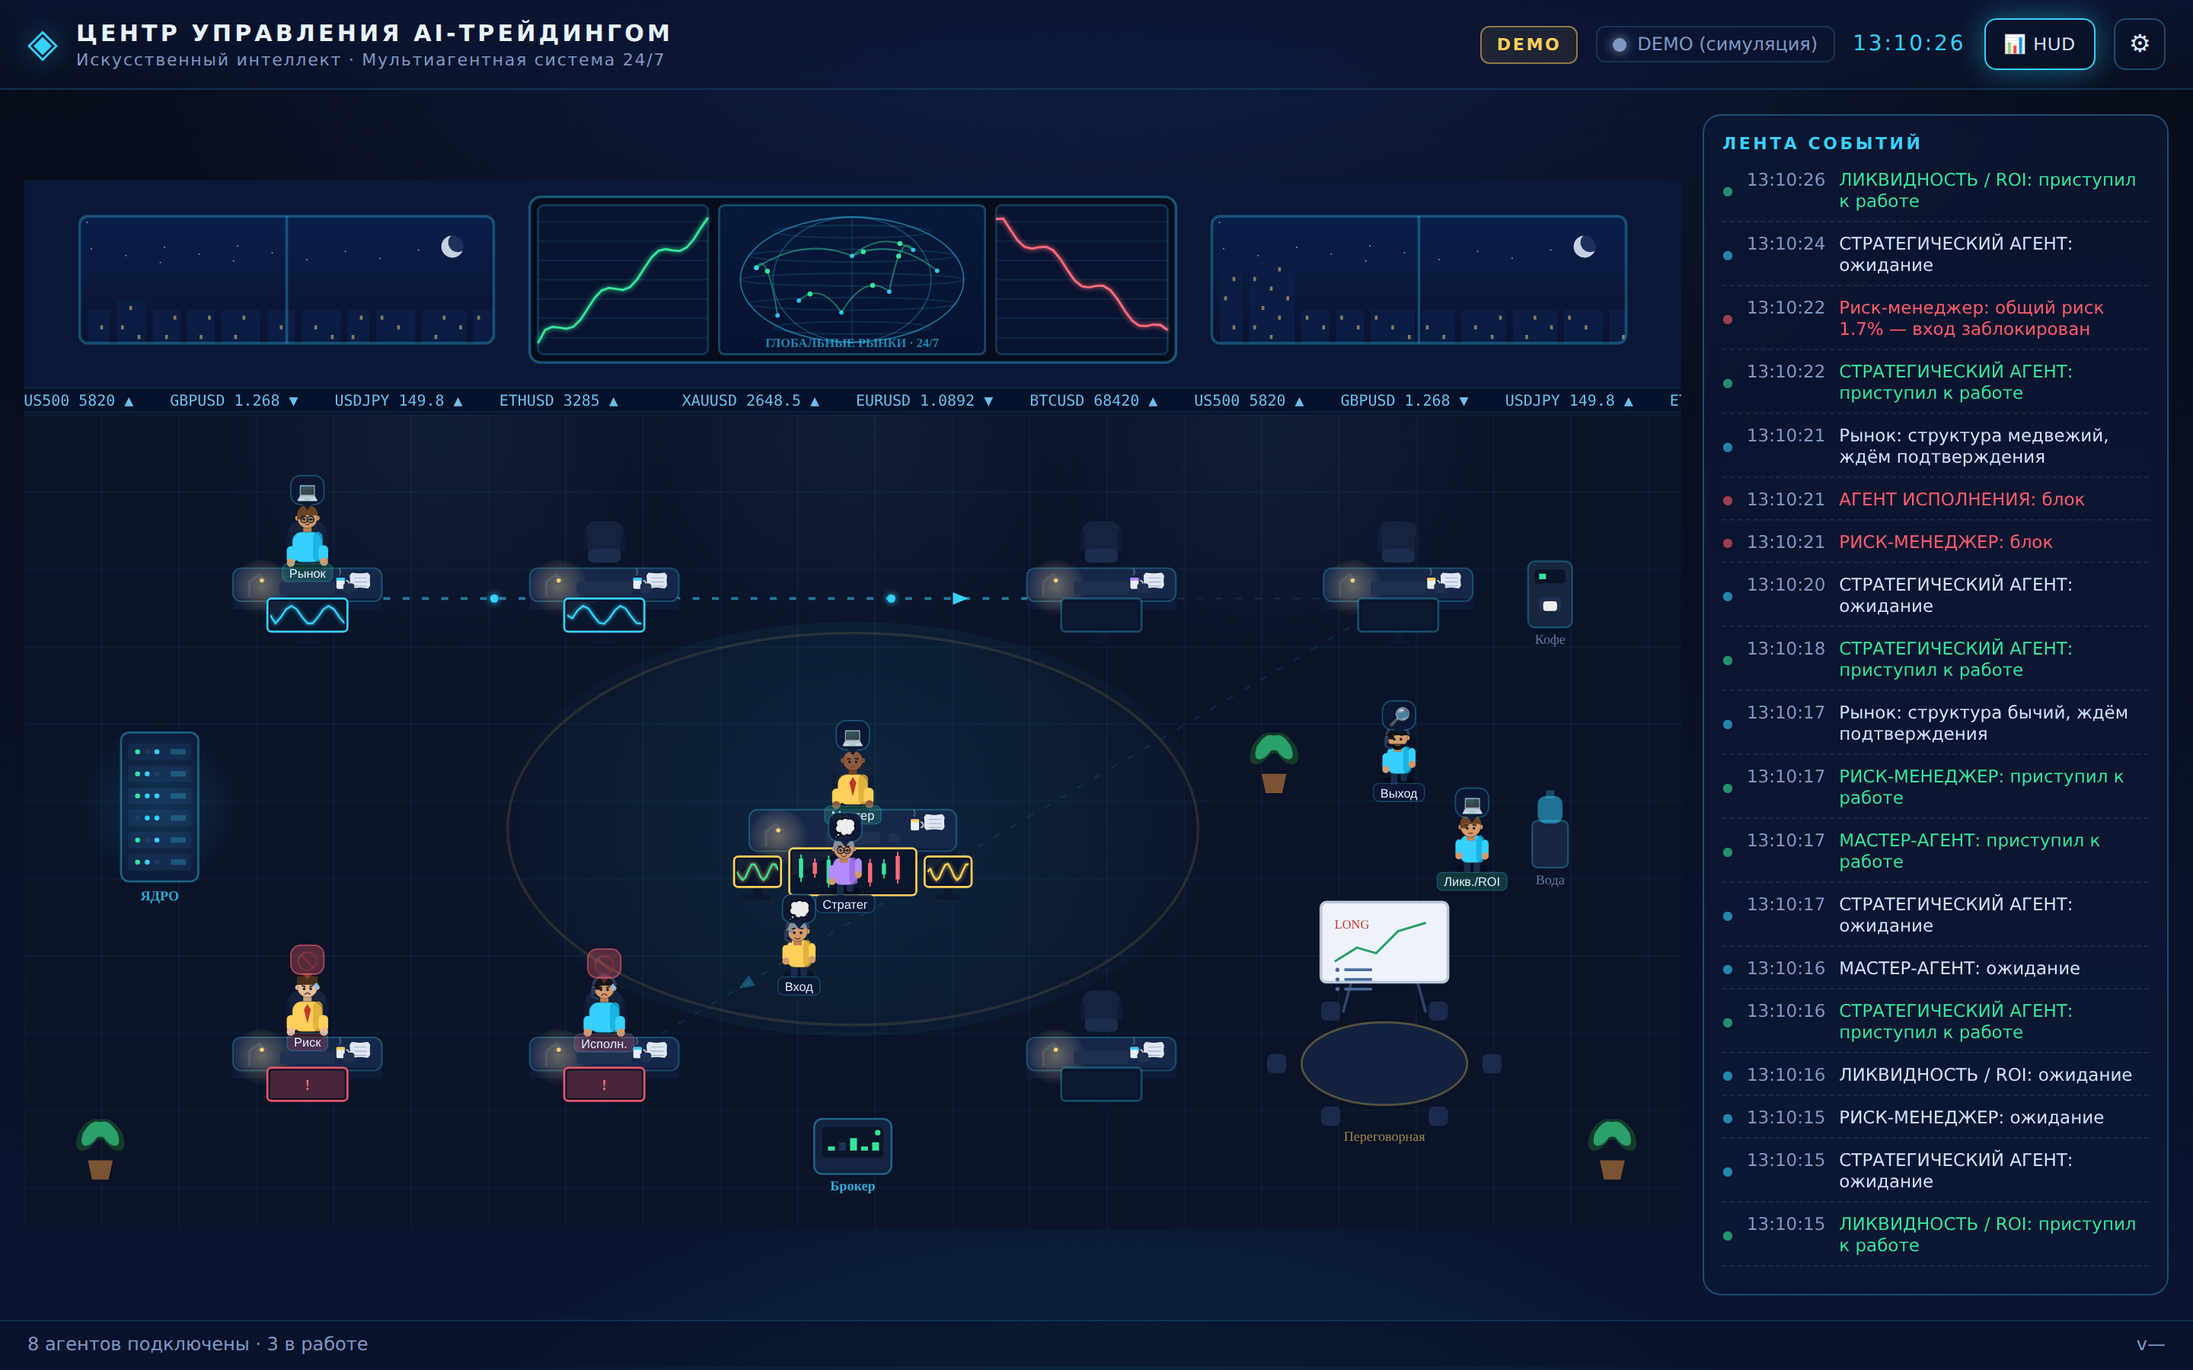
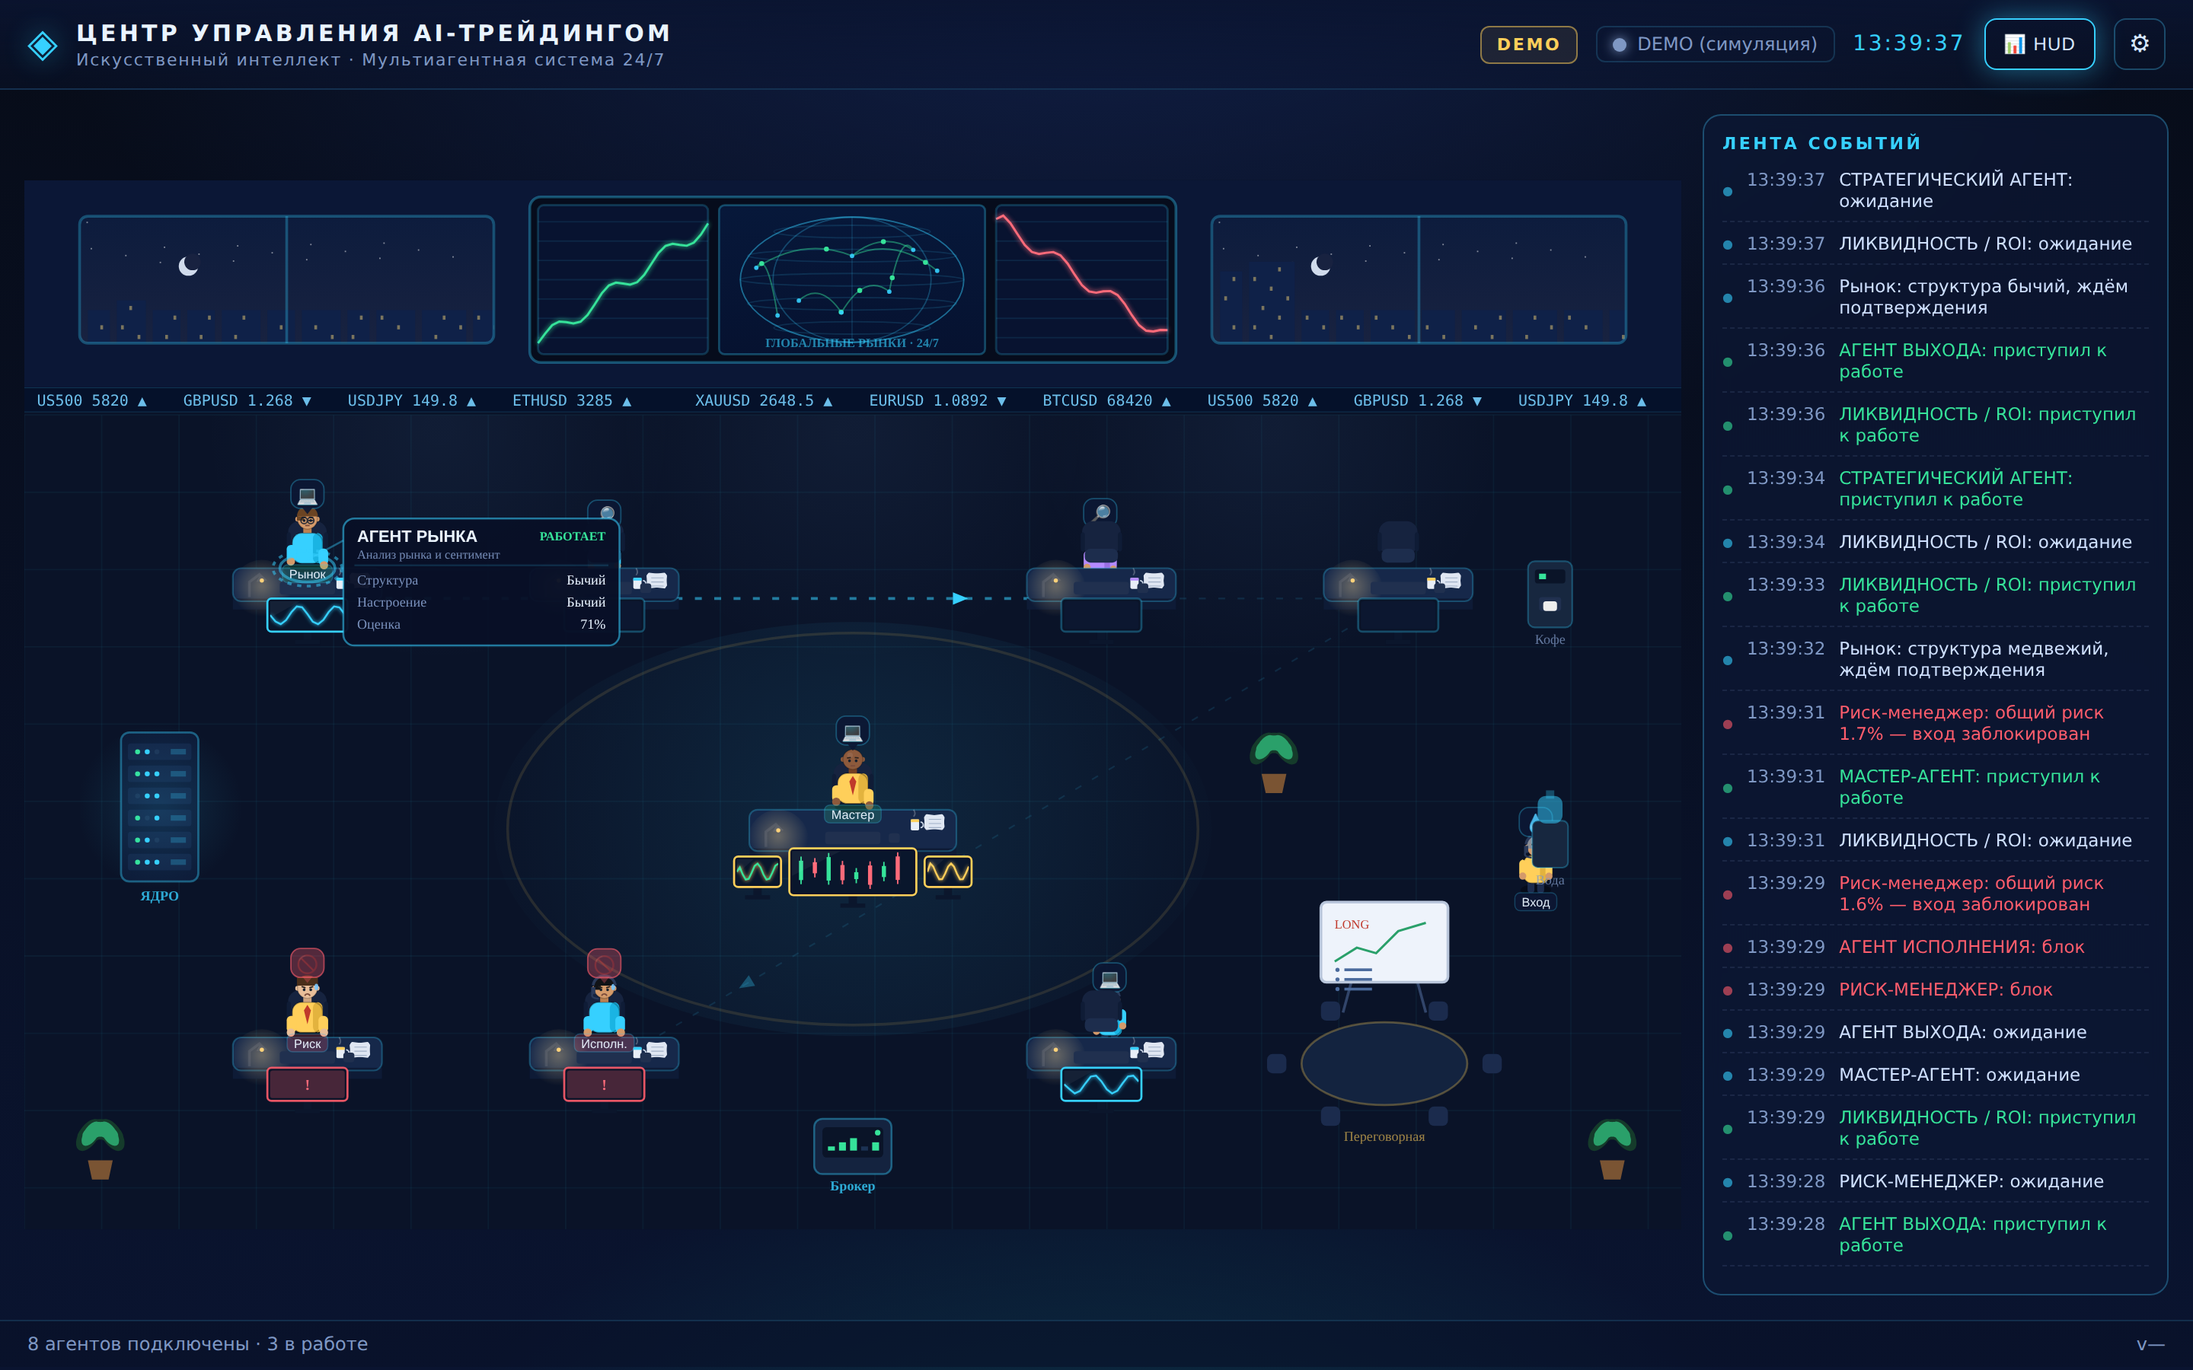
Day/night, gestures, HUD<->floor link, P&L tile
1. Day/night: windows run an accelerated dawn->day->dusk->night cycle (~2min)
   — sky gradient, sun/moon arc, stars and building lights fade with time.
2. Gestures: idle agents stretch or sip a mug at the coffee machine; seated
   working agents type harder/faster when the pipeline is hot.
3. HUD<->floor link: clicking a HUD panel selects that agent (and the floor
   shows its inspector card); a floor click highlights the matching HUD panel.
   Selection is shared across both views via Office.onSelect.
4. P&L tile: a session-summary panel (trades, winrate, P&L with a trend
   sparkline) in the free HUD cell; the simulator now closes trades and tracks
   wins/pnl, surfaced in summary and the activity feed.

Validated error-free via headless Chromium (assets/hud.png, floor.png).

Claude-Session: https://claude.ai/code/session_01K4bLkzzwJQD9288yDjJJh4

diff --git a/AI-Trading-Office-V4/renderer/office.js b/AI-Trading-Office-V4/renderer/office.js
@@ -46,7 +46,7 @@ const MAP_ARCS = [[0, 2], [2, 4], [1, 5], [3, 6], [0, 7], [5, 3], [2, 6]];
 
 let canvas, ctx, raf = 0, last = 0, dpr = 1;
 let ents = {}, agentsDef = null;
-let viewScale = 1, viewOx = 0, viewOy = 0, selectedId = null;
+let viewScale = 1, viewOx = 0, viewOy = 0, selectedId = null, onSelectCb = null;
 let standup = { active: false, until: 0, nextAt: 0 };
 let signals = [], nextSignalAt = 0, lastDecision = '';
 
@@ -66,7 +66,7 @@ function initEntities() {
       color: accentFor(a.id), skin: SKINS[hh % SKINS.length], hair: HAIRS[(hh >> 3) % HAIRS.length],
       hairStyle: hh % 5, beard: ((hh >> 6) % 4) === 0, look: ROLE_LOOK[a.id] || {},
       brokerRun: { active: false, phase: 'go', until: 0 }, brokerCooldown: 0,
-      blinkOffset: (hh % 5000), data: null
+      blinkOffset: (hh % 5000), data: null, gesture: null, gestureUntil: 0
     };
   });
   standup = { active: false, until: 0, nextAt: performance.now() + 20000 };
@@ -92,7 +92,8 @@ const Office = {
   forceStandup() { standup.active = true; standup.until = performance.now() + 20000; },
   forceSignal() { signals.push({ t0: performance.now(), dur: 4600, symbol: SYMB[Math.floor(Math.random() * SYMB.length)], side: sideFromDecision() }); },
   forceBrokerRun() { const e = ents.execution; if (e) e.brokerRun = { active: true, phase: 'go', until: 0, symbol: 'XAUUSD', side: 'BUY' }; },
-  select(id) { selectedId = (id && ents[id]) ? id : null; }
+  select(id) { selectedId = (id && ents[id]) ? id : null; if (onSelectCb) onSelectCb(selectedId); },
+  onSelect(cb) { onSelectCb = cb; }
 };
 
 function resizeIfNeeded() {
@@ -164,6 +165,13 @@ function step(dt, now) {
       }
     }
     moveToward(e, dt);
+    // idle micro-gestures (stretch, or sip at the coffee machine)
+    if (!e.moving && e.status !== 'working' && e.status !== 'blocked') {
+      if ((!e.gesture || now > e.gestureUntil) && Math.random() < 0.004) {
+        e.gesture = (e.roamKind === 'coffee') ? 'sip' : 'stretch'; e.gestureUntil = now + 1300;
+      }
+    }
+    if (e.gesture && (e.moving || now > e.gestureUntil)) e.gesture = null;
   }
 }
 
@@ -224,6 +232,7 @@ function onClick(ev) {
   let best = null, bd = 1e9;
   for (const id in ents) { const e = ents[id]; const d = Math.hypot(e.x - lx, e.y - ly); if (d < bd) { bd = d; best = id; } }
   selectedId = (best && bd < 34 && best === selectedId) ? null : (best && bd < 34 ? best : null);
+  if (onSelectCb) onSelectCb(selectedId);
 }
 
 function drawSelectionRing(e, now) {
@@ -331,26 +340,50 @@ function drawTicker(now) {
   ctx.restore();
 }
 
+// accelerated day/night so the sky visibly shifts dawn→day→dusk→night over ~2 min
+function smooth(t) { return t * t * (3 - 2 * t); }
+function mixHex(a, b, t) {
+  const pa = parseInt(a.slice(1), 16), pb = parseInt(b.slice(1), 16);
+  const r = Math.round(((pa >> 16) & 255) + (((pb >> 16) & 255) - ((pa >> 16) & 255)) * t);
+  const g = Math.round(((pa >> 8) & 255) + (((pb >> 8) & 255) - ((pa >> 8) & 255)) * t);
+  const bl = Math.round((pa & 255) + ((pb & 255) - (pa & 255)) * t);
+  return '#' + ((1 << 24) + (r << 16) + (g << 8) + bl).toString(16).slice(1);
+}
+function skyFor(now) {
+  const phase = ((now / 120000) + 0.72) % 1;                 // 0 = midnight; starts in the evening
+  const dayness = Math.max(0, Math.min(1, 0.5 - 0.5 * Math.cos(phase * 2 * Math.PI)));
+  const twi = Math.max(0, 1 - Math.min(Math.abs(phase - 0.25), Math.abs(phase - 0.75)) / 0.09);
+  const top = mixHex('#0a1430', '#2f74d6', smooth(dayness));
+  let bot = mixHex('#0a1230', '#bcd9f2', smooth(dayness));
+  bot = mixHex(bot, '#c9743a', twi * 0.6);                   // warm horizon at dawn/dusk
+  const bld = mixHex('#0c1d44', '#2a3f66', dayness * 0.6);
+  let sun, bxf;
+  if (phase >= 0.25 && phase < 0.75) { sun = true; bxf = (phase - 0.25) / 0.5; }
+  else { sun = false; const np = phase < 0.25 ? phase + 1 : phase; bxf = (np - 0.75) / 0.5; }
+  return { top, bot, bld, stars: 1 - dayness, lights: 1 - dayness, sun, bx: bxf, alt: Math.sin(bxf * Math.PI) };
+}
 function drawWindow(x, y, w, h, now) {
+  const sky = skyFor(now);
   roundRect(x, y, w, h, 6); ctx.fillStyle = '#05102a'; ctx.fill();
   ctx.save(); ctx.clip();
   const g = ctx.createLinearGradient(0, y, 0, y + h);
-  g.addColorStop(0, '#0a1f4a'); g.addColorStop(1, '#0a1230'); ctx.fillStyle = g; ctx.fillRect(x, y, w, h);
-  // moon + stars
-  ctx.fillStyle = 'rgba(230,240,255,0.85)'; ctx.beginPath(); ctx.arc(x + w - 30, y + 22, 8, 0, 7); ctx.fill();
-  ctx.fillStyle = 'rgba(10,31,74,0.9)'; ctx.beginPath(); ctx.arc(x + w - 26, y + 19, 7, 0, 7); ctx.fill();
-  ctx.fillStyle = 'rgba(255,255,255,0.5)';
-  for (let s = 0; s < 14; s++) ctx.fillRect(x + ((s * 53) % (w - 10)) + 5, y + ((s * 29) % 30) + 4, 1, 1);
-  // skyline
-  let bx = x + 6, seed = Math.floor(x);
-  while (bx < x + w - 6) {
+  g.addColorStop(0, sky.top); g.addColorStop(1, sky.bot); ctx.fillStyle = g; ctx.fillRect(x, y, w, h);
+  // sun / moon along an arc
+  const bx = x + 20 + sky.bx * (w - 40), by = y + h - 18 - sky.alt * (h - 34);
+  if (sky.alt > 0.02) {
+    if (sky.sun) { const gg = ctx.createRadialGradient(bx, by, 2, bx, by, 16); gg.addColorStop(0, 'rgba(255,236,170,0.9)'); gg.addColorStop(1, 'rgba(255,236,170,0)'); ctx.fillStyle = gg; ctx.beginPath(); ctx.arc(bx, by, 16, 0, 7); ctx.fill(); ctx.fillStyle = '#ffe9a0'; ctx.beginPath(); ctx.arc(bx, by, 7, 0, 7); ctx.fill(); }
+    else { ctx.fillStyle = 'rgba(230,240,255,0.9)'; ctx.beginPath(); ctx.arc(bx, by, 7, 0, 7); ctx.fill(); ctx.fillStyle = sky.bot; ctx.beginPath(); ctx.arc(bx + 3, by - 3, 6, 0, 7); ctx.fill(); }
+  }
+  // stars (night only)
+  if (sky.stars > 0.02) { ctx.fillStyle = `rgba(255,255,255,${0.6 * sky.stars})`; for (let s = 0; s < 16; s++) ctx.fillRect(x + ((s * 53) % (w - 10)) + 5, y + ((s * 29) % 30) + 4, 1, 1); }
+  // skyline + lit windows (brighter at night)
+  let sx = x + 6, seed = Math.floor(x);
+  while (sx < x + w - 6) {
     const bw = 16 + (seed % 20), bh = 24 + ((seed * 7) % 56); seed = (seed * 1103515245 + 12345) & 0x7fffffff;
-    const by = y + h - bh; ctx.fillStyle = '#0c1d44'; ctx.fillRect(bx, by, bw, bh);
-    ctx.fillStyle = 'rgba(255,220,120,0.5)';
-    for (let wy = by + 4; wy < y + h - 3; wy += 7)
-      for (let wx = bx + 3; wx < bx + bw - 3; wx += 6)
-        if (((wx * 13 + wy * 7 + Math.floor(now / 1700)) % 5) === 0) ctx.fillRect(wx, wy, 2, 3);
-    bx += bw + 5;
+    const byy = y + h - bh; ctx.fillStyle = sky.bld; ctx.fillRect(sx, byy, bw, bh);
+    if (sky.lights > 0.02) { ctx.fillStyle = `rgba(255,220,120,${0.55 * sky.lights})`;
+      for (let wy = byy + 4; wy < y + h - 3; wy += 7) for (let wx = sx + 3; wx < sx + bw - 3; wx += 6) if (((wx * 13 + wy * 7 + Math.floor(now / 1700)) % 5) === 0) ctx.fillRect(wx, wy, 2, 3); }
+    sx += bw + 5;
   }
   ctx.restore();
   ctx.strokeStyle = 'rgba(54,208,255,0.3)'; ctx.lineWidth = 2; roundRect(x, y, w, h, 6); ctx.stroke();
@@ -451,7 +484,8 @@ function drawSeated(e, now) {
   ctx.fillStyle = shade(e.color, -28); roundRect(x + 4, y - 2, 7, 22, 4); ctx.fill();      // body shade
   if (e.look.tie) { ctx.fillStyle = '#c0392b'; ctx.beginPath(); ctx.moveTo(x, y); ctx.lineTo(x - 2.5, y + 4); ctx.lineTo(x, y + 14); ctx.lineTo(x + 2.5, y + 4); ctx.closePath(); ctx.fill(); }
   ctx.strokeStyle = 'rgba(0,0,0,0.25)'; ctx.lineWidth = 1; roundRect(x - 11, y - 2, 22, 22, 7); ctx.stroke();
-  const t = e.status === 'working' ? Math.sin(now * 0.02) * 1.6 : 0;      // typing
+  const hot = hotPipeline();                                             // type harder on a hot signal
+  const t = e.status === 'working' ? Math.sin(now * (hot ? 0.035 : 0.02)) * (hot ? 2.6 : 1.6) : 0;
   ctx.fillStyle = e.color; roundRect(x - 15, y + 8 + t, 7, 12, 3); ctx.fill(); roundRect(x + 8, y + 8 - t, 7, 12, 3); ctx.fill();
   ctx.fillStyle = e.skin; ctx.beginPath(); ctx.arc(x - 12, y + 20 + t, 3, 0, 7); ctx.arc(x + 12, y + 20 - t, 3, 0, 7); ctx.fill();
   drawHead(e, x, y - 12, now);
@@ -467,8 +501,17 @@ function drawWalking(e, now) {
   ctx.fillStyle = shade(e.color, -28); roundRect(x + 3, y - 10, 6, 20, 4); ctx.fill();
   if (e.look.tie) { ctx.fillStyle = '#c0392b'; ctx.fillRect(x - 1.5, y - 8, 3, 12); }
   ctx.strokeStyle = 'rgba(0,0,0,0.25)'; ctx.lineWidth = 1; roundRect(x - 9, y - 10, 18, 20, 6); ctx.stroke();
-  ctx.fillStyle = e.color; roundRect(x - 12, y - 7 + walk * 2.5, 5, 13, 3); ctx.fill(); roundRect(x + 7, y - 7 - walk * 2.5, 5, 13, 3); ctx.fill();
-  ctx.fillStyle = e.skin; ctx.beginPath(); ctx.arc(x - 9.5, y + 5 + walk * 2.5, 2.6, 0, 7); ctx.arc(x + 9.5, y + 5 - walk * 2.5, 2.6, 0, 7); ctx.fill();
+  if (e.gesture === 'stretch' && !e.moving) {                 // arms raised
+    ctx.fillStyle = e.color; roundRect(x - 12, y - 17, 5, 14, 3); ctx.fill(); roundRect(x + 7, y - 17, 5, 14, 3); ctx.fill();
+    ctx.fillStyle = e.skin; ctx.beginPath(); ctx.arc(x - 9.5, y - 17, 2.6, 0, 7); ctx.arc(x + 9.5, y - 17, 2.6, 0, 7); ctx.fill();
+  } else if (e.gesture === 'sip' && !e.moving) {               // raise a mug to the face
+    ctx.fillStyle = e.color; roundRect(x - 12, y - 7, 5, 13, 3); ctx.fill(); roundRect(x + 5, y - 11, 5, 12, 3); ctx.fill();
+    ctx.fillStyle = e.skin; ctx.beginPath(); ctx.arc(x - 9.5, y + 5, 2.6, 0, 7); ctx.arc(x + 8, y - 12, 2.6, 0, 7); ctx.fill();
+    ctx.fillStyle = '#e8eef7'; roundRect(x + 6, y - 16, 5, 5, 1); ctx.fill();
+  } else {
+    ctx.fillStyle = e.color; roundRect(x - 12, y - 7 + walk * 2.5, 5, 13, 3); ctx.fill(); roundRect(x + 7, y - 7 - walk * 2.5, 5, 13, 3); ctx.fill();
+    ctx.fillStyle = e.skin; ctx.beginPath(); ctx.arc(x - 9.5, y + 5 + walk * 2.5, 2.6, 0, 7); ctx.arc(x + 9.5, y + 5 - walk * 2.5, 2.6, 0, 7); ctx.fill();
+  }
   drawHead(e, x + e.facing, y - 16, now);
   emote(e, x, y - 32, now);
   nameplate(e, x, y + 26);

diff --git a/AI-Trading-Office-V4/renderer/app.js b/AI-Trading-Office-V4/renderer/app.js
@@ -58,9 +58,29 @@ function buildPanels() {
     root.querySelectorAll('.v').forEach(v => { fields[v.dataset.k] = v; });
     panels[a.id] = { root, badge: root.querySelector('[data-badge]'), fields, spark: root.querySelector('.spark') };
     history[a.id] = [];
+    root.addEventListener('click', () => { if (window.Office) window.Office.select(a.id); });
   }
+
+  // P&L / session-summary tile in the free bottom-center cell
+  const pnl = document.createElement('div');
+  pnl.className = 'panel pnl accent-cyan';
+  pnl.style.gridColumn = 2; pnl.style.gridRow = 3;
+  pnl.innerHTML = `
+    <div class="panel-head"><div class="panel-titles">
+      <div class="panel-name">ИТОГ СЕССИИ</div><div class="panel-sub">Сделки и P&amp;L</div></div></div>
+    <div class="panel-body">
+      <div class="kv"><span class="k">Сделок</span><span class="v" id="pnl-trades">0</span></div>
+      <div class="kv"><span class="k">Winrate</span><span class="v" id="pnl-wr">—</span></div>
+      <div class="kv"><span class="k">P&amp;L сессии</span><span class="v" id="pnl-val">0 $</span></div>
+    </div>
+    <canvas class="spark" id="pnl-spark" width="300" height="60"></canvas>`;
+  el('agents-grid').appendChild(pnl);
+  history.pnl = [];
+
   requestAnimationFrame(drawLinks);
 }
+
+function highlightPanel(id) { for (const k in panels) panels[k].root.classList.toggle('selected', k === id); }
 
 // ---------- connection lines (hub -> each agent) ----------
 function drawLinks() {
@@ -121,6 +141,15 @@ function render(w) {
   if (w.log && w.log.length) pushFeed(w.log);
   if (w.summary) el('summary').textContent =
     `${w.summary.connected} агентов подключены · ${w.summary.working} в работе`;
+  // P&L tile
+  if (w.summary && el('pnl-val')) {
+    el('pnl-trades').textContent = w.summary.trades ?? 0;
+    el('pnl-wr').textContent = w.summary.winrate != null ? w.summary.winrate + '%' : '—';
+    const v = w.summary.pnl ?? 0, pv = el('pnl-val');
+    pv.textContent = (v >= 0 ? '+' : '') + v.toFixed(0) + ' $';
+    pv.style.color = v >= 0 ? 'var(--green)' : 'var(--red)';
+    if (history.pnl) { history.pnl.push(v); if (history.pnl.length > 60) history.pnl.shift(); drawSpark(el('pnl-spark'), history.pnl, v >= 0 ? '#36e39a' : '#ff5d6c'); }
+  }
   // header mode
   const modeBadge = el('mode-badge');
   modeBadge.textContent = w.mode === 'live' ? 'LIVE' : 'DEMO';
@@ -240,7 +269,7 @@ function tickClock() {
 // ---------- boot ----------
 window.addEventListener('DOMContentLoaded', () => {
   buildPanels();
-  if (window.Office) { window.Office.init(el('floor'), AGENTS); window.Office.start(); }
+  if (window.Office) { window.Office.init(el('floor'), AGENTS); window.Office.start(); window.Office.onSelect(highlightPanel); }
   el('btn-settings').addEventListener('click', openSettings);
   el('btn-cancel').addEventListener('click', closeSettings);
   el('btn-save').addEventListener('click', saveSettings);

diff --git a/AI-Trading-Office-V4/renderer/agents.js b/AI-Trading-Office-V4/renderer/agents.js
@@ -62,6 +62,7 @@ class Simulator {
     this.risk = rnd(0.6, 1.3);
     this.roi = rnd(-1.5, 4.5);
     this.swing = rnd(-0.8, 1.2);
+    this.trades = 0; this.wins = 0; this.pnl = 0;     // session trade stats (P&L tile)
     this.state = {};
     for (const a of AGENTS) this.state[a.id] = { status: 'waiting', metrics: {} };
     this._recompute();
@@ -130,6 +131,16 @@ class Simulator {
     if (this.risk > 1.6 && Math.random() < 0.5)
       log.push({ kind: 'bad', text: `Риск-менеджер: общий риск ${this.risk.toFixed(1)}% — вход заблокирован` });
 
+    // simulate trade closes for the session P&L tile
+    if (this.conf > 76 && this.risk < 1.6 && Math.random() < 0.32) {
+      this.trades++;
+      const win = Math.random() < (this.bull ? 0.58 : 0.5);
+      const amt = win ? rnd(6, 42) : -rnd(5, 30);
+      if (win) this.wins++;
+      this.pnl += amt;
+      log.push({ kind: win ? 'ok' : 'bad', text: `Сделка ${win ? 'в прибыль' : 'в убыток'}: ${amt >= 0 ? '+' : ''}${amt.toFixed(0)}$` });
+    }
+
     return this.snapshot(log);
   }
 
@@ -149,7 +160,8 @@ class Simulator {
     const working = Object.values(agents).filter(s => s.status === 'working').length;
     return {
       seq: this.seq, mode: 'demo', connection: 'demo',
-      summary: { connected: AGENTS.length, working },
+      summary: { connected: AGENTS.length, working, pnl: this.pnl, trades: this.trades,
+                 winrate: this.trades ? Math.round(this.wins / this.trades * 100) : null },
       agents,
       log: log.map((l, i) => ({ ...l, ts: nowHHMMSS(), seq: this.seq * 100 + i }))
     };

diff --git a/AI-Trading-Office-V4/renderer/styles.css b/AI-Trading-Office-V4/renderer/styles.css
@@ -68,6 +68,8 @@ body.view-floor .agents-grid,body.view-floor .links{display:none}
 .panel.accent-cyan{border-top:2px solid rgba(54,208,255,.65)}
 .panel.accent-gold{border-top:2px solid rgba(255,207,90,.7)}
 .panel.accent-violet{border-top:2px solid rgba(181,139,255,.7)}
+.panel{cursor:pointer}
+.panel.selected{border-color:var(--cyan); box-shadow:0 6px 26px rgba(0,0,0,.5), 0 0 26px rgba(54,208,255,.45)}
 .panel.is-working{box-shadow:0 6px 26px rgba(0,0,0,.45), 0 0 22px rgba(54,227,154,.18)}
 .panel.is-blocked{box-shadow:0 6px 26px rgba(0,0,0,.45), 0 0 22px rgba(255,93,108,.2)}
 .panel.hub{align-items:center; justify-content:center; text-align:center;
